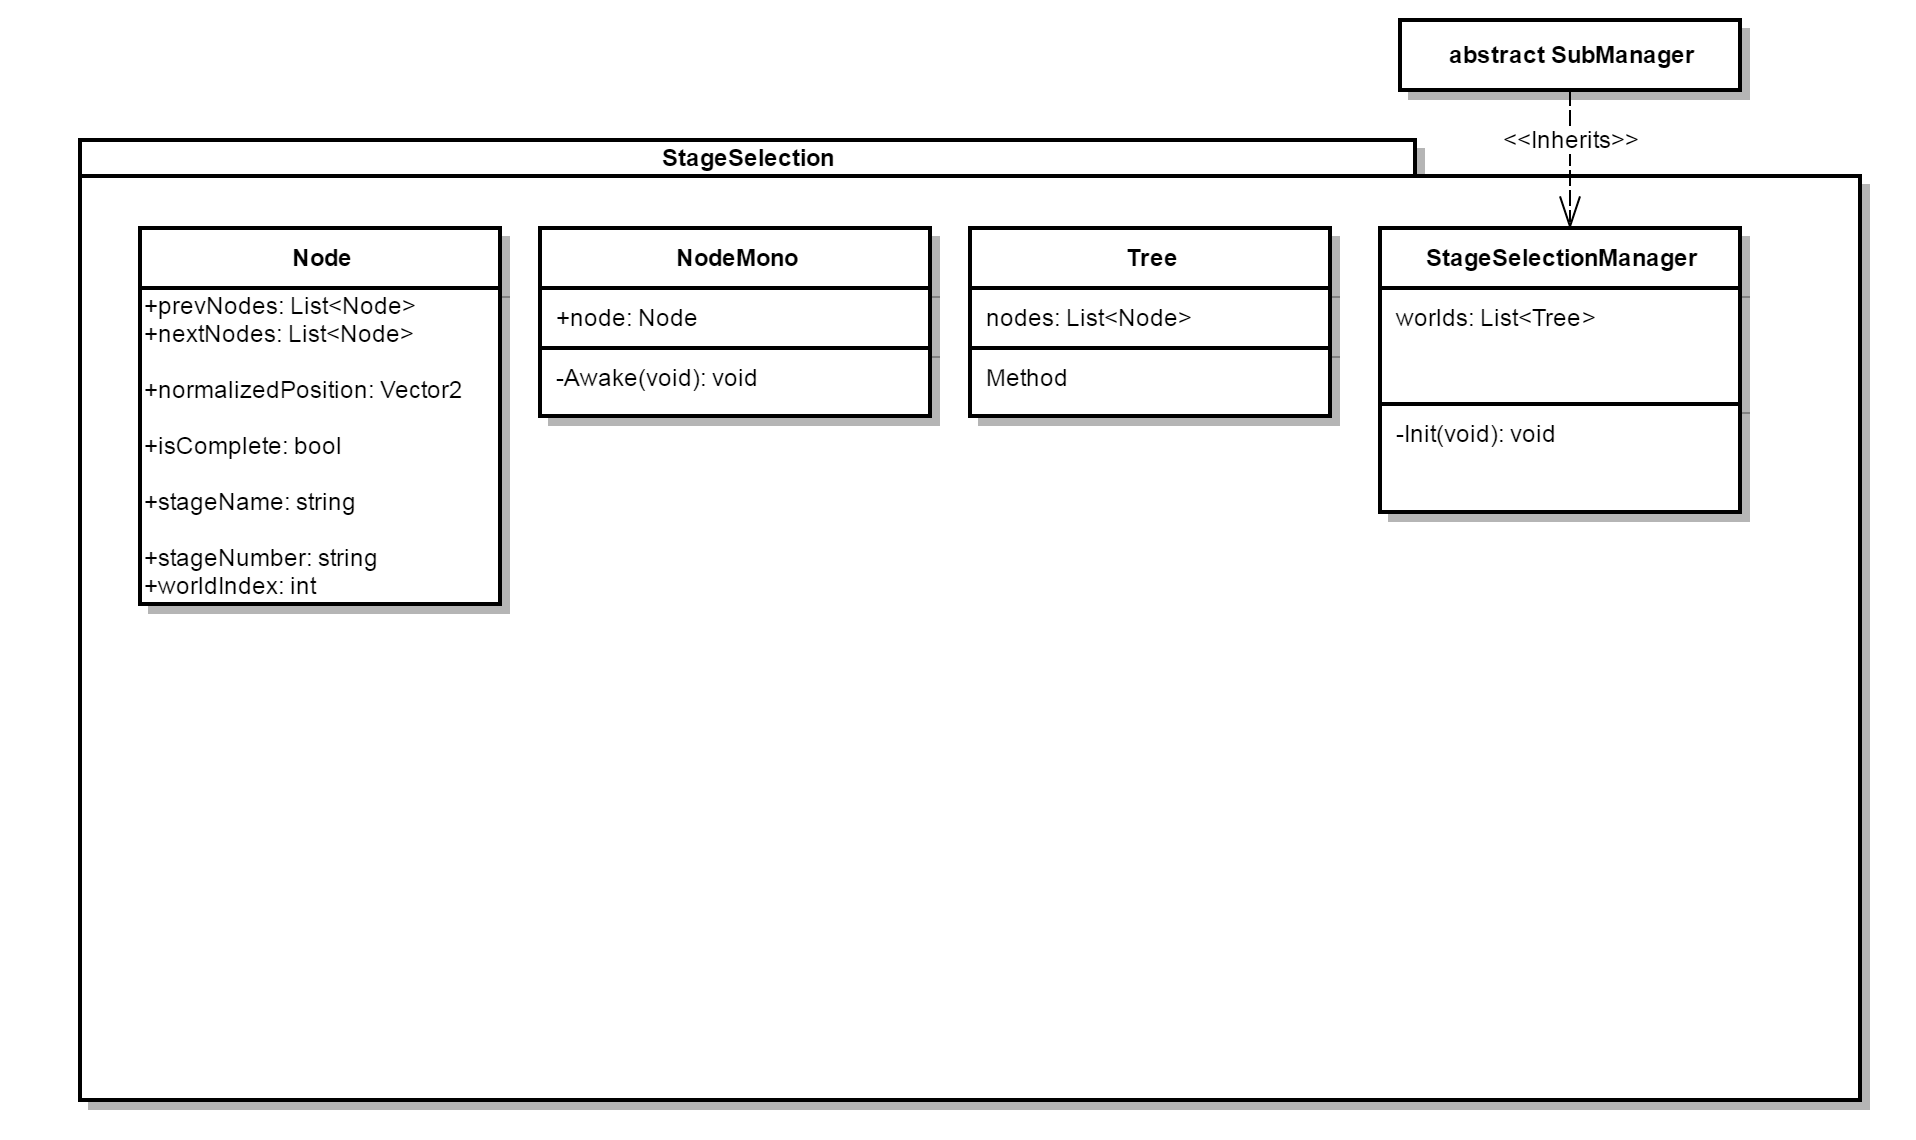
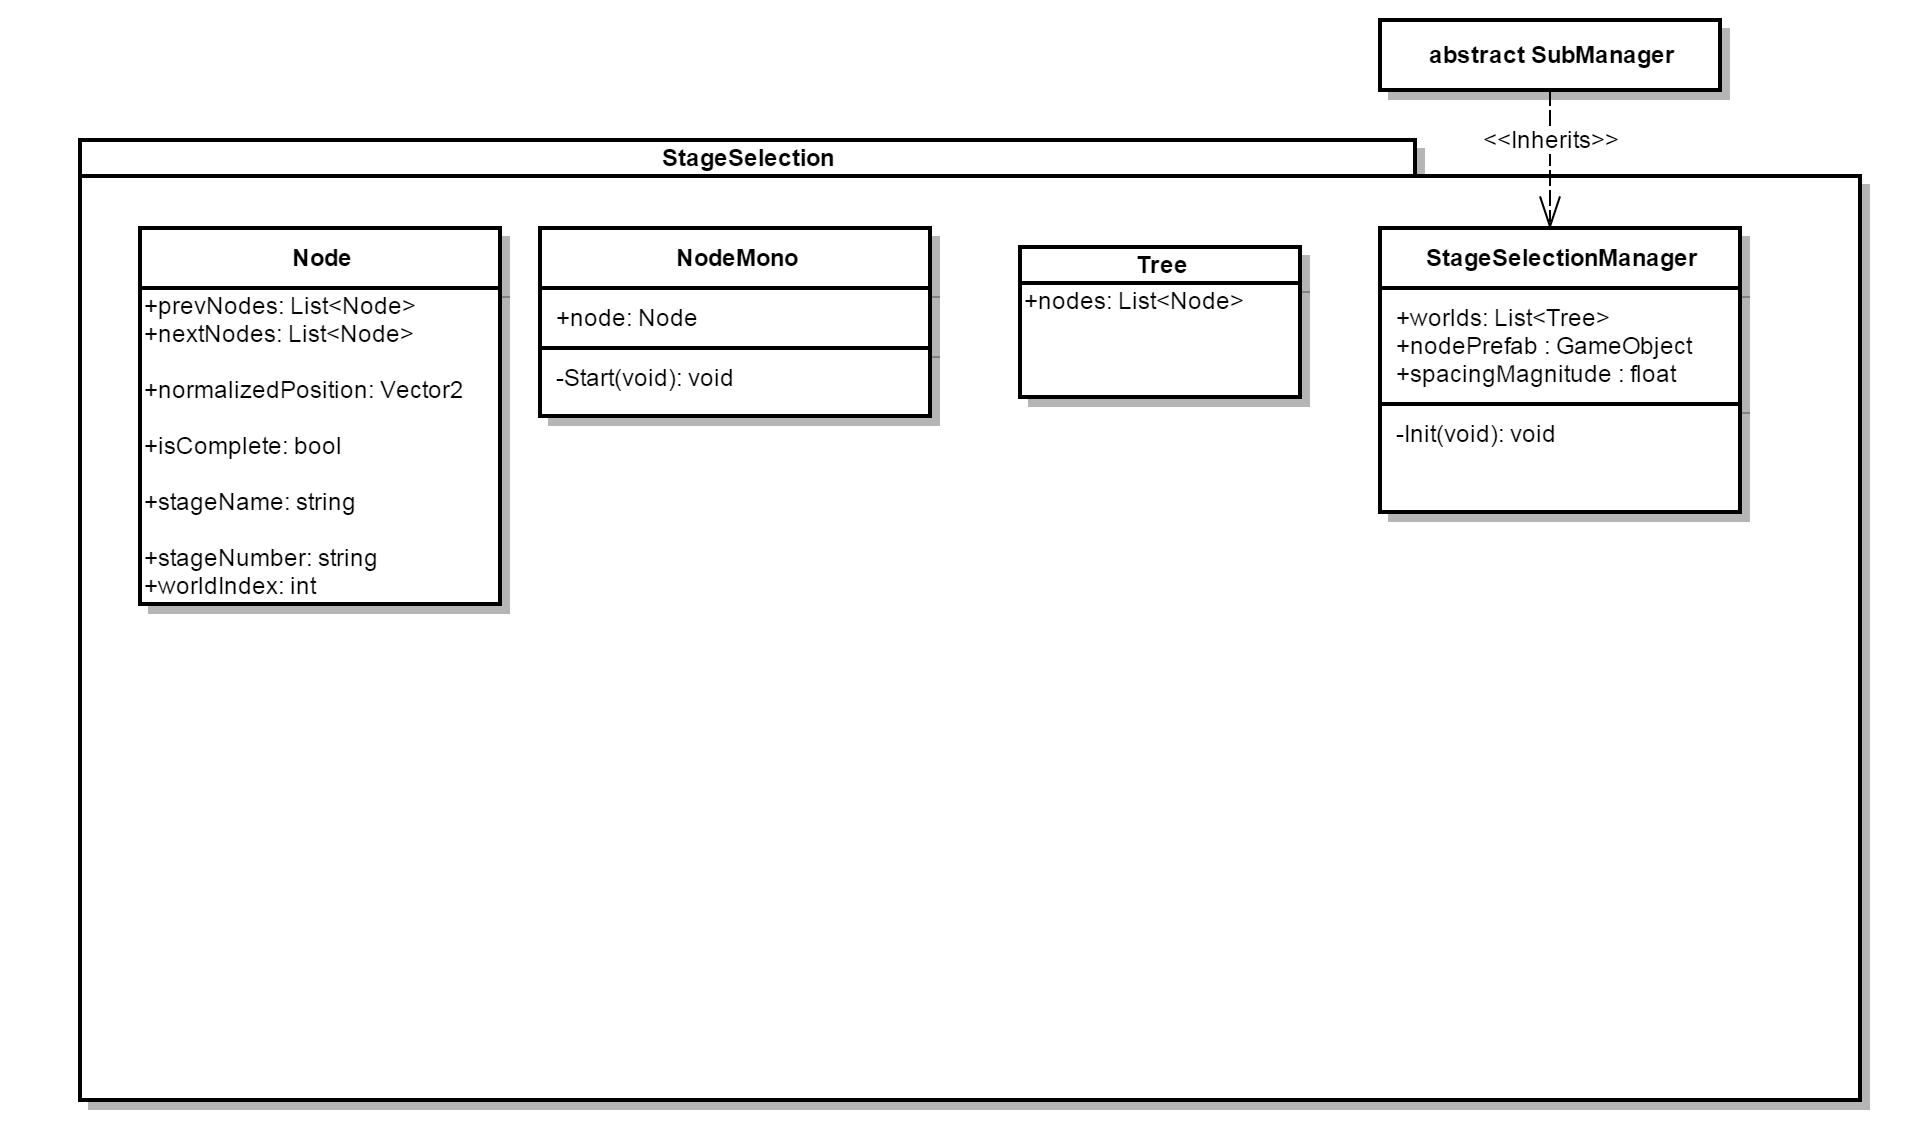
Stage Selection Setup
The StageSlectionManager script is set up where all it needs is to be
filled, in code, where all of the nodes are. The Script will also
require a prefab and a spacing Coeficent.

diff --git a/Assets/Scripts/StageSelection/StageSelectionManager.cs b/Assets/Scripts/StageSelection/StageSelectionManager.cs
@@ -9,10 +9,13 @@
         public List<Node> nodes = new List<Node>();
     }
 
-    public class StageSelectionManager : SubManager<StageSelectionManager>
+    public class StageSelectionManager : MonoBehaviour
     {
+        public GameObject nodePrefab;
         public List<Tree> worlds = new List<Tree>();
-        protected override void Init()  //Awake for the Manager
+        public float spacingMagnitude;
+        [ContextMenu("Awake")]
+        protected void Awake()  //Awake for the Manager
         {
             worlds = 
                 new List<Tree>
@@ -21,9 +24,9 @@
                     {
                         nodes = new List<Node>
                         {
-                            new Node {stageNumber = "1", normalizedPosition = new Vector2(0, 0)},
-                            new Node{stageNumber = "2", normalizedPosition = new Vector2(0, 1)},
-                            new Node{stageNumber = "3", normalizedPosition = new Vector2(0, 2)},
+                            new Node{isComplete = true, stageNumber = "1", normalizedPosition = new Vector2(0, 0)},
+                            new Node{isComplete = false, stageNumber = "2", normalizedPosition = new Vector2(0, 1)},
+                            new Node{isComplete = false, stageNumber = "3", normalizedPosition = new Vector2(0, 2)},
                         }
                     }
                 };
@@ -41,7 +44,14 @@
             {
                 foreach (var n in tree.nodes)
                 {
-                    
+                    var nodeObject = 
+                        Instantiate(nodePrefab, 
+                        new Vector3(
+                            n.normalizedPosition.x * spacingMagnitude, 0, n.normalizedPosition.y * spacingMagnitude
+                            ), new Quaternion());
+
+                    var monoNode = nodeObject.AddComponent<MonoNode>();
+                    monoNode.node = n;
                 }
             }
         }

diff --git a/Assets/Scripts/StageSelection/MonoNode.cs b/Assets/Scripts/StageSelection/MonoNode.cs
@@ -24,7 +24,7 @@
     {
         public Node node;
 
-        private void Awake()
+        private void Start()
         {
             var mat = GetComponent<Renderer>().material;
 
